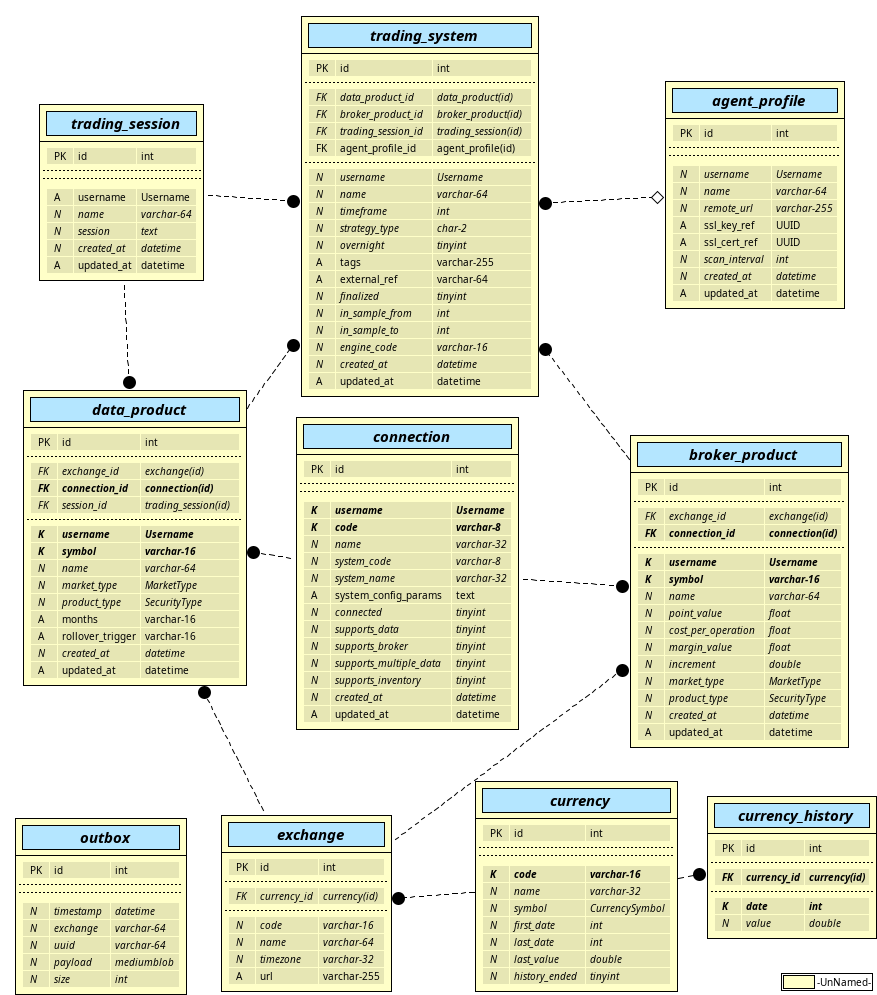
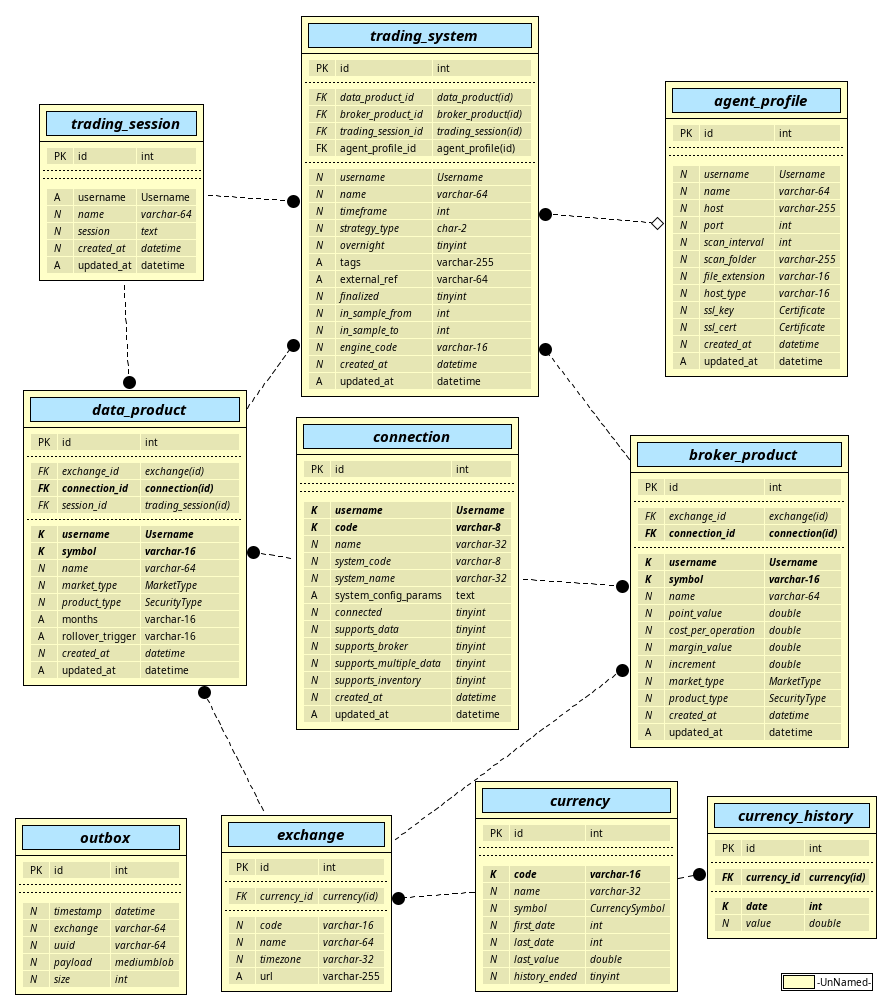
Converted docs to Ascii doc format

diff --git a/README.md b/README.md
@@ -35,15 +35,15 @@ Simply stated, the **Algotiqa** platform will try to address all pain points of 
 
 ## Documentation
 
-[Installation and deployment](deployment/installation-and-deployment.adoc)
+[Installation and deployment](deployment/main.adoc)
 
-[Core concepts](concepts/index.md)
+[Core concepts](concepts/main.adoc)
 
-[User guide](user/index.md)
+[User guide](user/main.adoc)
 
-[Administration guide](admin/index.md)
+[Administration guide](admin/main.adoc)
 
-[Tiq engine](tiq/tiq.adoc)
+[Tiq engine](tiq/main.adoc)
 
 ## License
 
